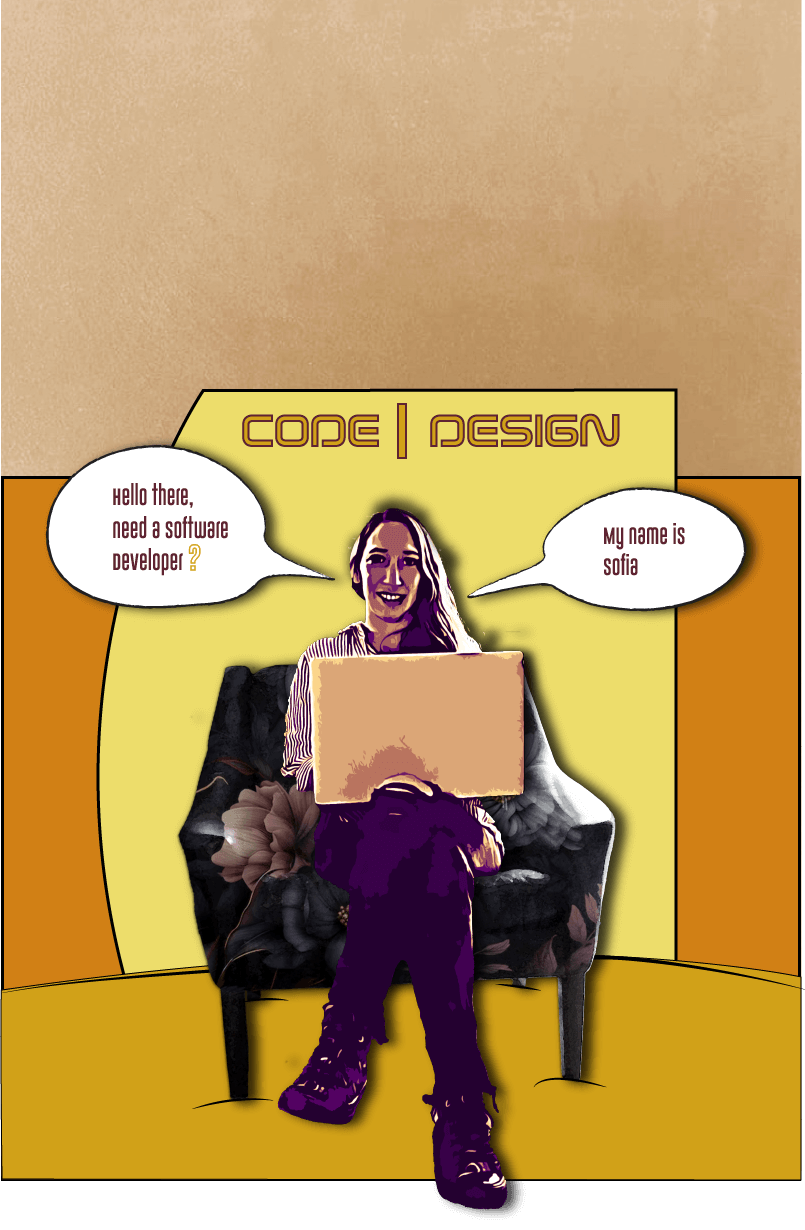
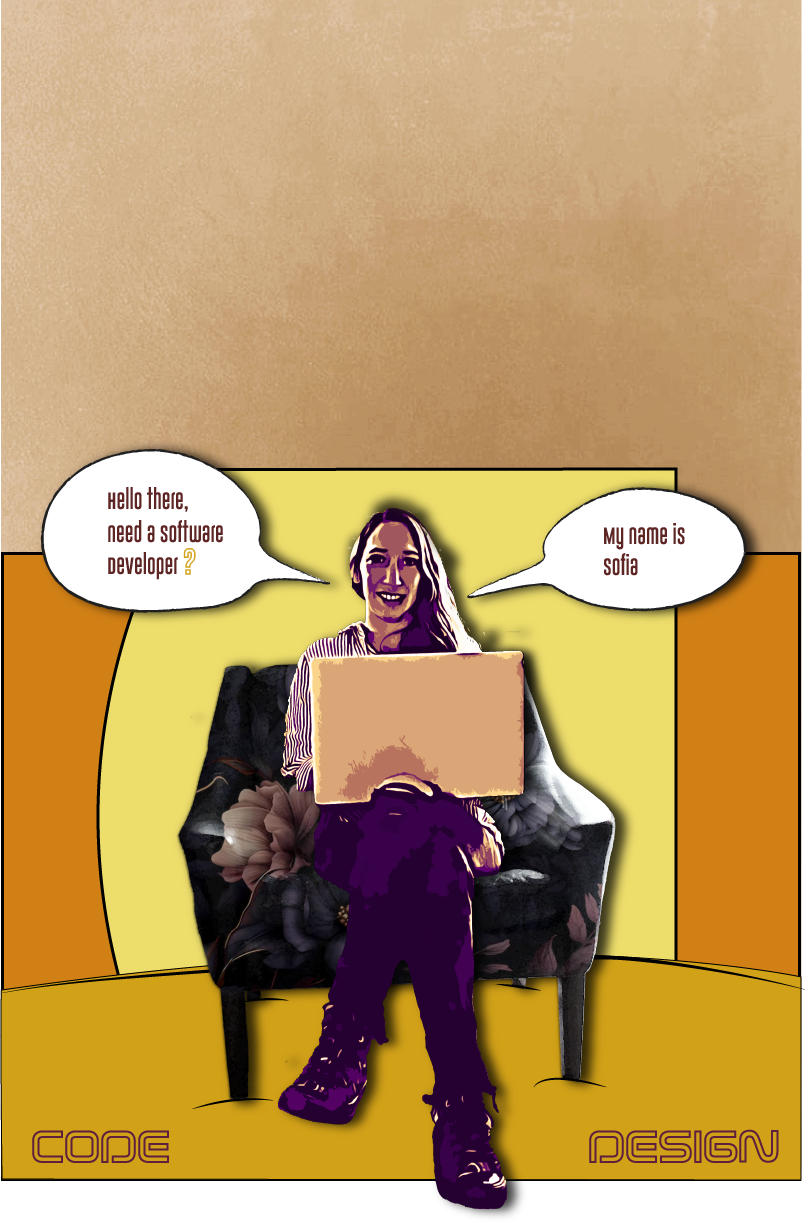
Styled buttons and text and changed the herosection image

diff --git a/client/src/component/heroSection/HeroSection.tsx b/client/src/component/heroSection/HeroSection.tsx
@@ -5,7 +5,7 @@ function HeroSection() {
   const { t } = useTranslation('heroSection')
 
   return (
-    <div className="relative w-full mb-12 h-full">
+    <div className="relative w-screen mb-12 h-full ">
       <div className="absolute pl-4 pr-4 inset-0 flex flex-col md:justify-center mt-2 gap-2 md:gap-8 z-10 text-center lg:max-w-[18em] md:pl-4">
         <div className=" items-center">
           <p className="absolute ml-[7.7em] mt-2 font-heading text-2xl font-light leading-0 text-right">{t('smallTitle')}</p>
@@ -24,16 +24,19 @@ function HeroSection() {
           <h2 className="text-5xl text-accent-secondary text-right font-bold">{t('cv')}</h2>
         </div>
 
-        <div className="flex font-heading gap-4 justify-center text-[1.6rem]">
-          <button className="color-btn-primary">{t('buttonCV')}</button>
-          <button className="color-btn-primary">{t('contact')}</button>
+        <div className="flex font-heading gap-11 justify-center text-[1.3rem] top-[calc(100% - 40rem)]">
+          <button className="bg-accent-primary text-white py-2 px-4 rounded-md">{t('buttonCV')}</button>
+          <button className="bg-accent-secondary py-2 px-4 rounded-md text-white">{t('contact')}</button>
         </div>
 
-        <p>{t('cvSubtitle')}</p>
+<div className="bg-black bg-opacity-60 py-2 px-2">
+        <p className="text-white  leading-0 mb-0 text-sm">{t('cvSubtitle')}</p>
+
+</div>
       </div>
 
-
       <ResponsiveHeroImage />
+
     </div>
   )
 }

diff --git a/client/src/component/header/Header.tsx b/client/src/component/header/Header.tsx
@@ -1,4 +1,5 @@
 import { useContext, useEffect, useState } from 'react';
+import { useTranslation } from 'react-i18next';
 import { NavLink } from 'react-router-dom';
 import { ThemeContext } from '../../context/ThemeContext';
 import SelectLanguage from '../SelectLanguage';
@@ -9,6 +10,8 @@ import NavbarMobile from './NavbarMobile';
 const Header = () => {
   const [isScrollingUp, setIsScrollingUp] = useState(true);
   let lastScrollY = window.scrollY;
+
+  const { t } = useTranslation('translation');
 
   const themeContext = useContext(ThemeContext);
   const currentTheme = themeContext?.currentTheme;
@@ -59,7 +62,7 @@ const Header = () => {
           <ThemeSwitch  />
           <SelectLanguage />
           <NavLink to='/contact' className='hidden text-lg md:block border border-accent-primary px-4 py-2 rounded-sm text-accent-primary hover:bg-accent-secondary hover:border-accent-secondary hover:text-hover-text'>
-            Contact
+            {t('contact')}
           </NavLink>
           <NavbarMobile />
         </div>

diff --git a/client/src/component/heroSection/ResponsiveHeroImage.tsx b/client/src/component/heroSection/ResponsiveHeroImage.tsx
@@ -13,23 +13,25 @@ const ResponsiveHeroImage = () => {
   }, []);
 
   return (
-  <picture>
+  <picture className="">
       {/* Mobile image */}
       <source
         media="(max-width: 768px)" 
         srcSet="/assets/images/heroImage_mobile.png 300w, /assets/images/heroImage_mobile.png 768w"
+        className="object-cover w-full h-full"
       />
       {/* Desktop image */}
       <source
         media="(min-width: 769px)"
         srcSet="/assets/images/heroImage_desktop.jpg"
+        className="object-cover w-full h-full"
       />
       {/* Fallback image */}
       <img 
         src="/assets/images/heroImage_desktop.jpg" 
         alt="Hero Image"
-        loading="lazy" // Optional for performance
-        className="object-cover w-full h-full "
+        loading="lazy"
+        className="object-cover w-full h-full"
       />
     </picture>
   )

diff --git a/client/src/component/header/NavbarMobile.tsx b/client/src/component/header/NavbarMobile.tsx
@@ -39,7 +39,7 @@ const NavbarMobile = () => {
     }
 
     return () => {
-      document.body.style.overflow = ''; // Clean up on unmount
+      document.body.style.overflow = '';
     };
   }, [currentTheme, showMenu]);
 
@@ -59,7 +59,7 @@ const NavbarMobile = () => {
               stiffness: 260,
               damping: 20,
             }}
-            className='h-screen bg-bg-secondary text-text-primary fixed left-0 right-0 top-0 bottom-0 sm:w-2/4 lg:shadow-4xl pt-4 pb-6 lg:pt-5 flex flex-col '>
+            className='h-screen bg-bg-primary text-text-primary fixed left-0 right-0 top-0 bottom-0 sm:w-2/4 lg:shadow-4xl pt-4 pb-6 lg:pt-5 flex flex-col '>
             <div className='flex-grow overflow-y-auto mt-[3em]'>
               <ul className='grid gap-2'>
                 {navRoutes.map((menu, index) => (

diff --git a/client/src/component/SelectLanguage.tsx b/client/src/component/SelectLanguage.tsx
@@ -51,7 +51,7 @@ const SelectLanguage = () => {
           {LANGUAGES.map(({ code, label }) => (
             <div
               key={code}
-              className='bg-bg-secondary text-[1.2rem] cursor-pointer text-text-primary hover:text-hover-text hover:bg-accent-secondary py-2 px-2'
+              className='bg-bg-primary text-[1.2rem] cursor-pointer text-text-primary hover:text-hover-text hover:bg-accent-secondary py-2 px-2'
               onClick={() => handleLanguageChange(code)}>
               {label}
             </div>

diff --git a/client/src/pages/HomePage.tsx b/client/src/pages/HomePage.tsx
@@ -25,7 +25,7 @@ const HomePage = () => {
 
   return (
     <>
-      <div style={{ paddingTop: `${headerHeight}px` }}>
+      <div style={{ paddingTop: `${headerHeight}px` }} className="bg-blend-multiply">
         <div style={{ minHeight: `calc(100% - ${headerHeight}px)` }} className="relative">
           <HeroSection />
         </div>
